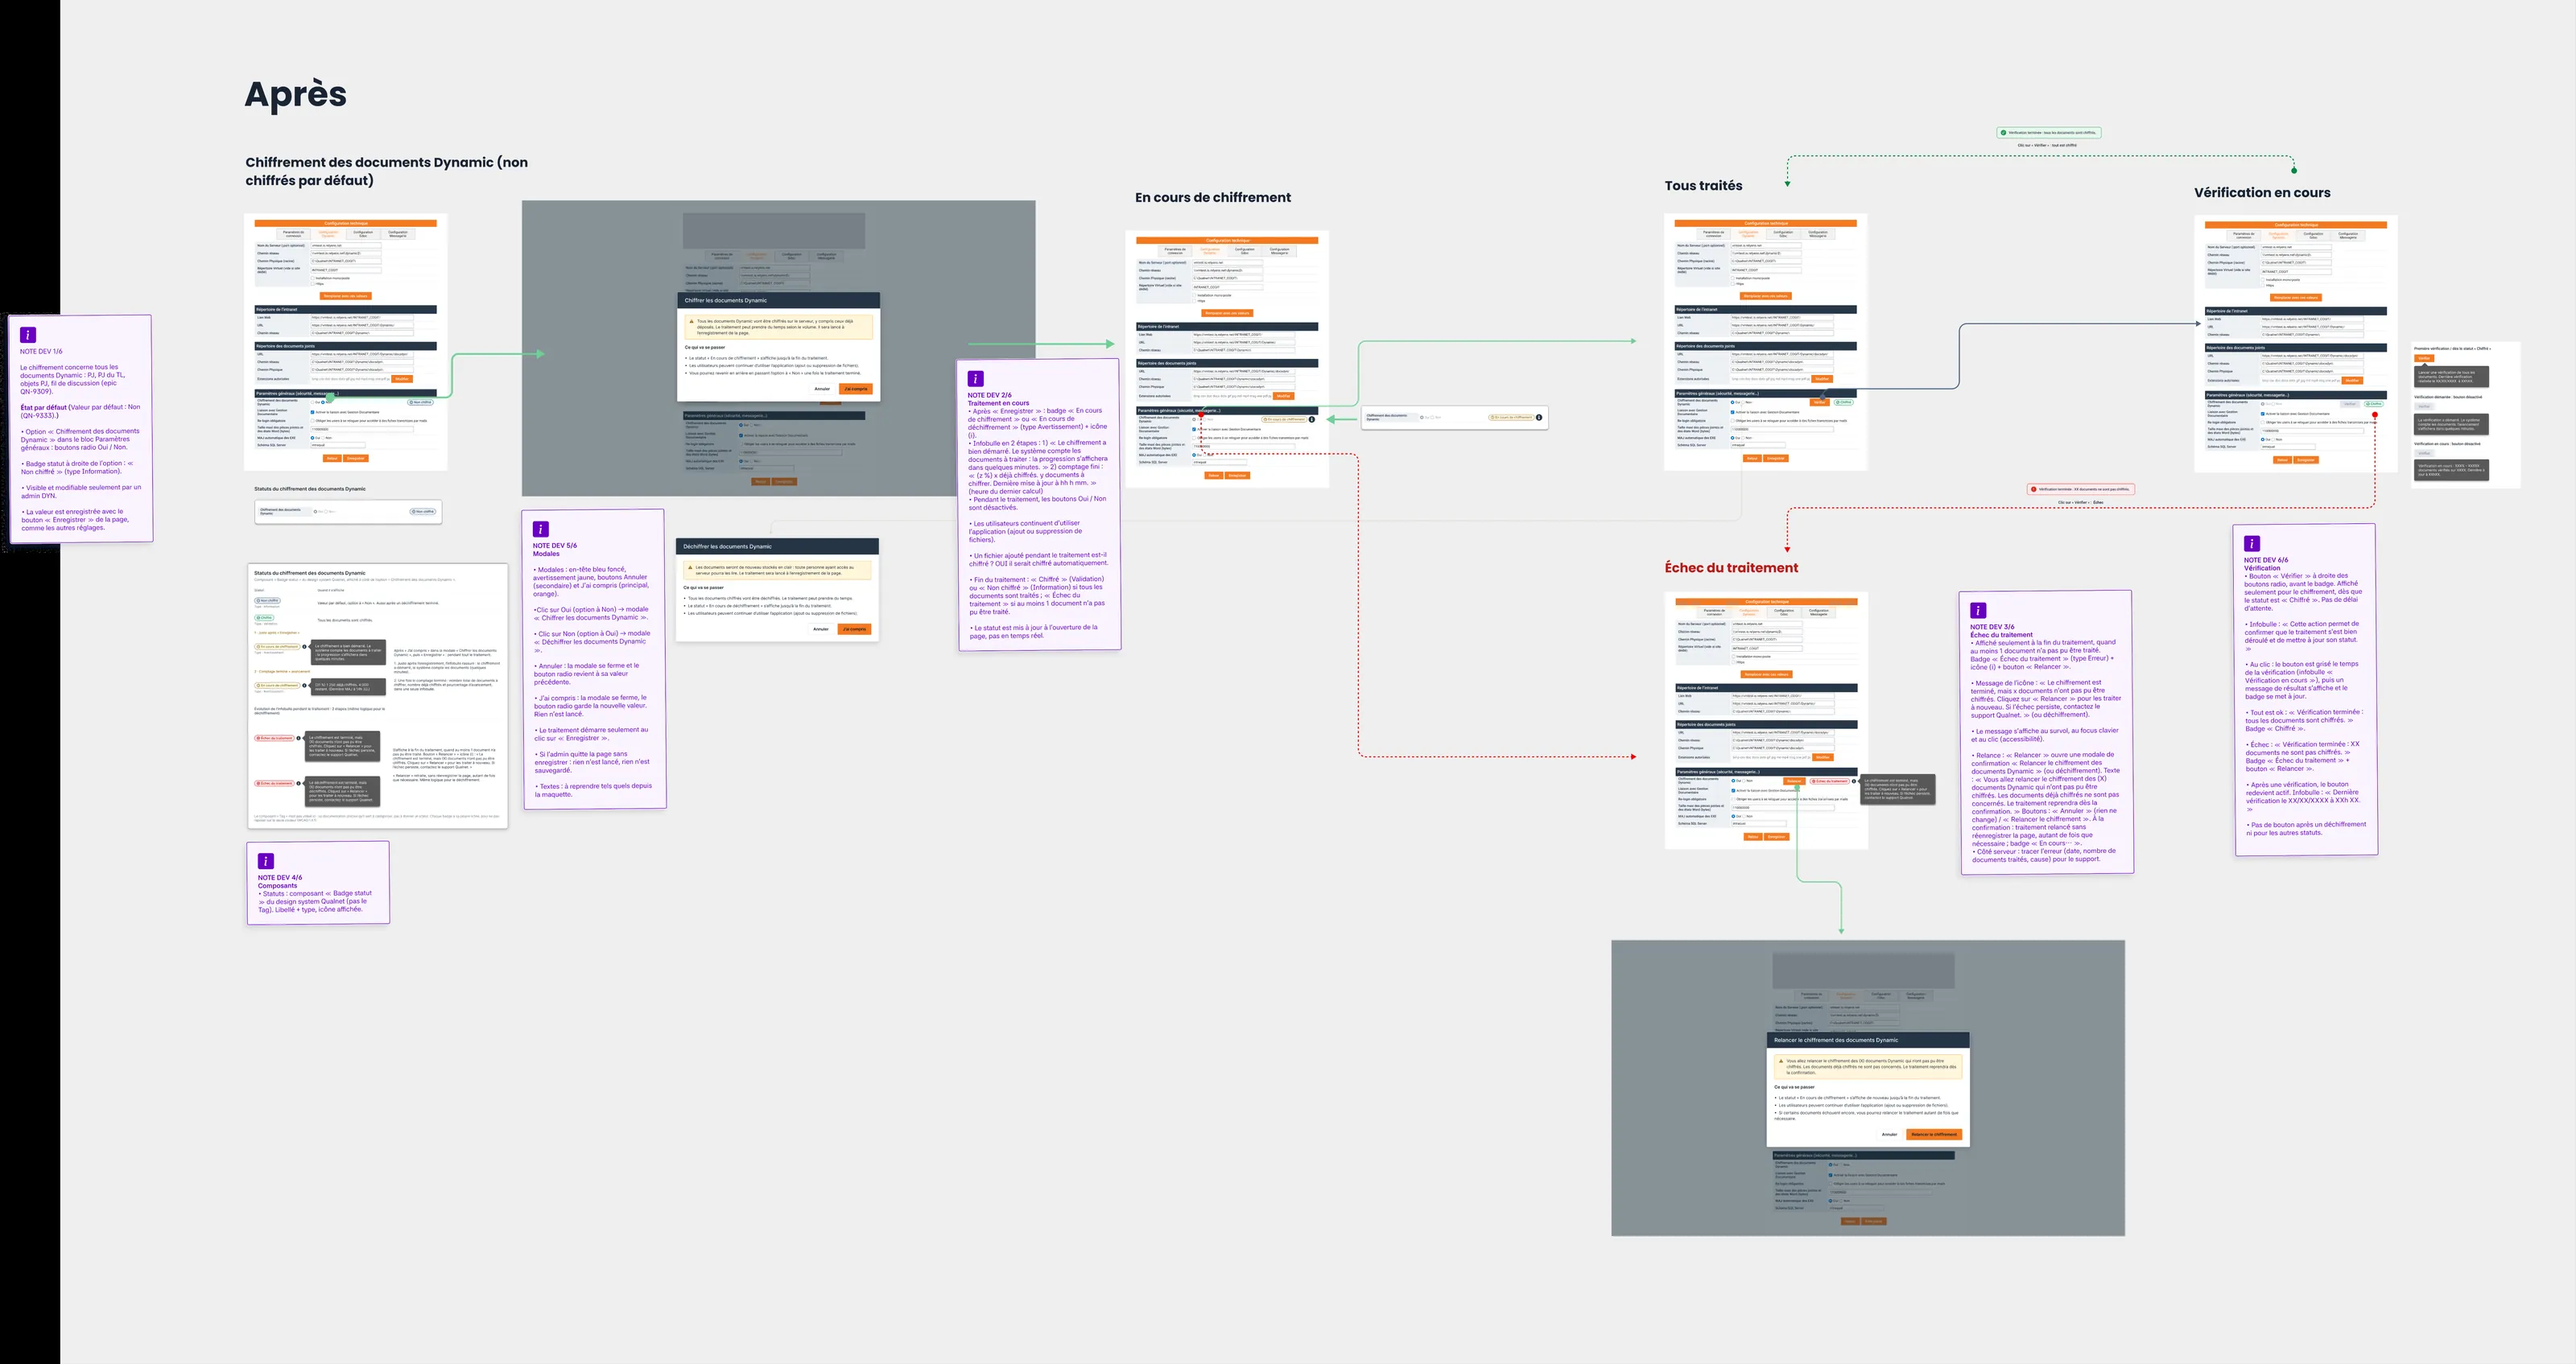
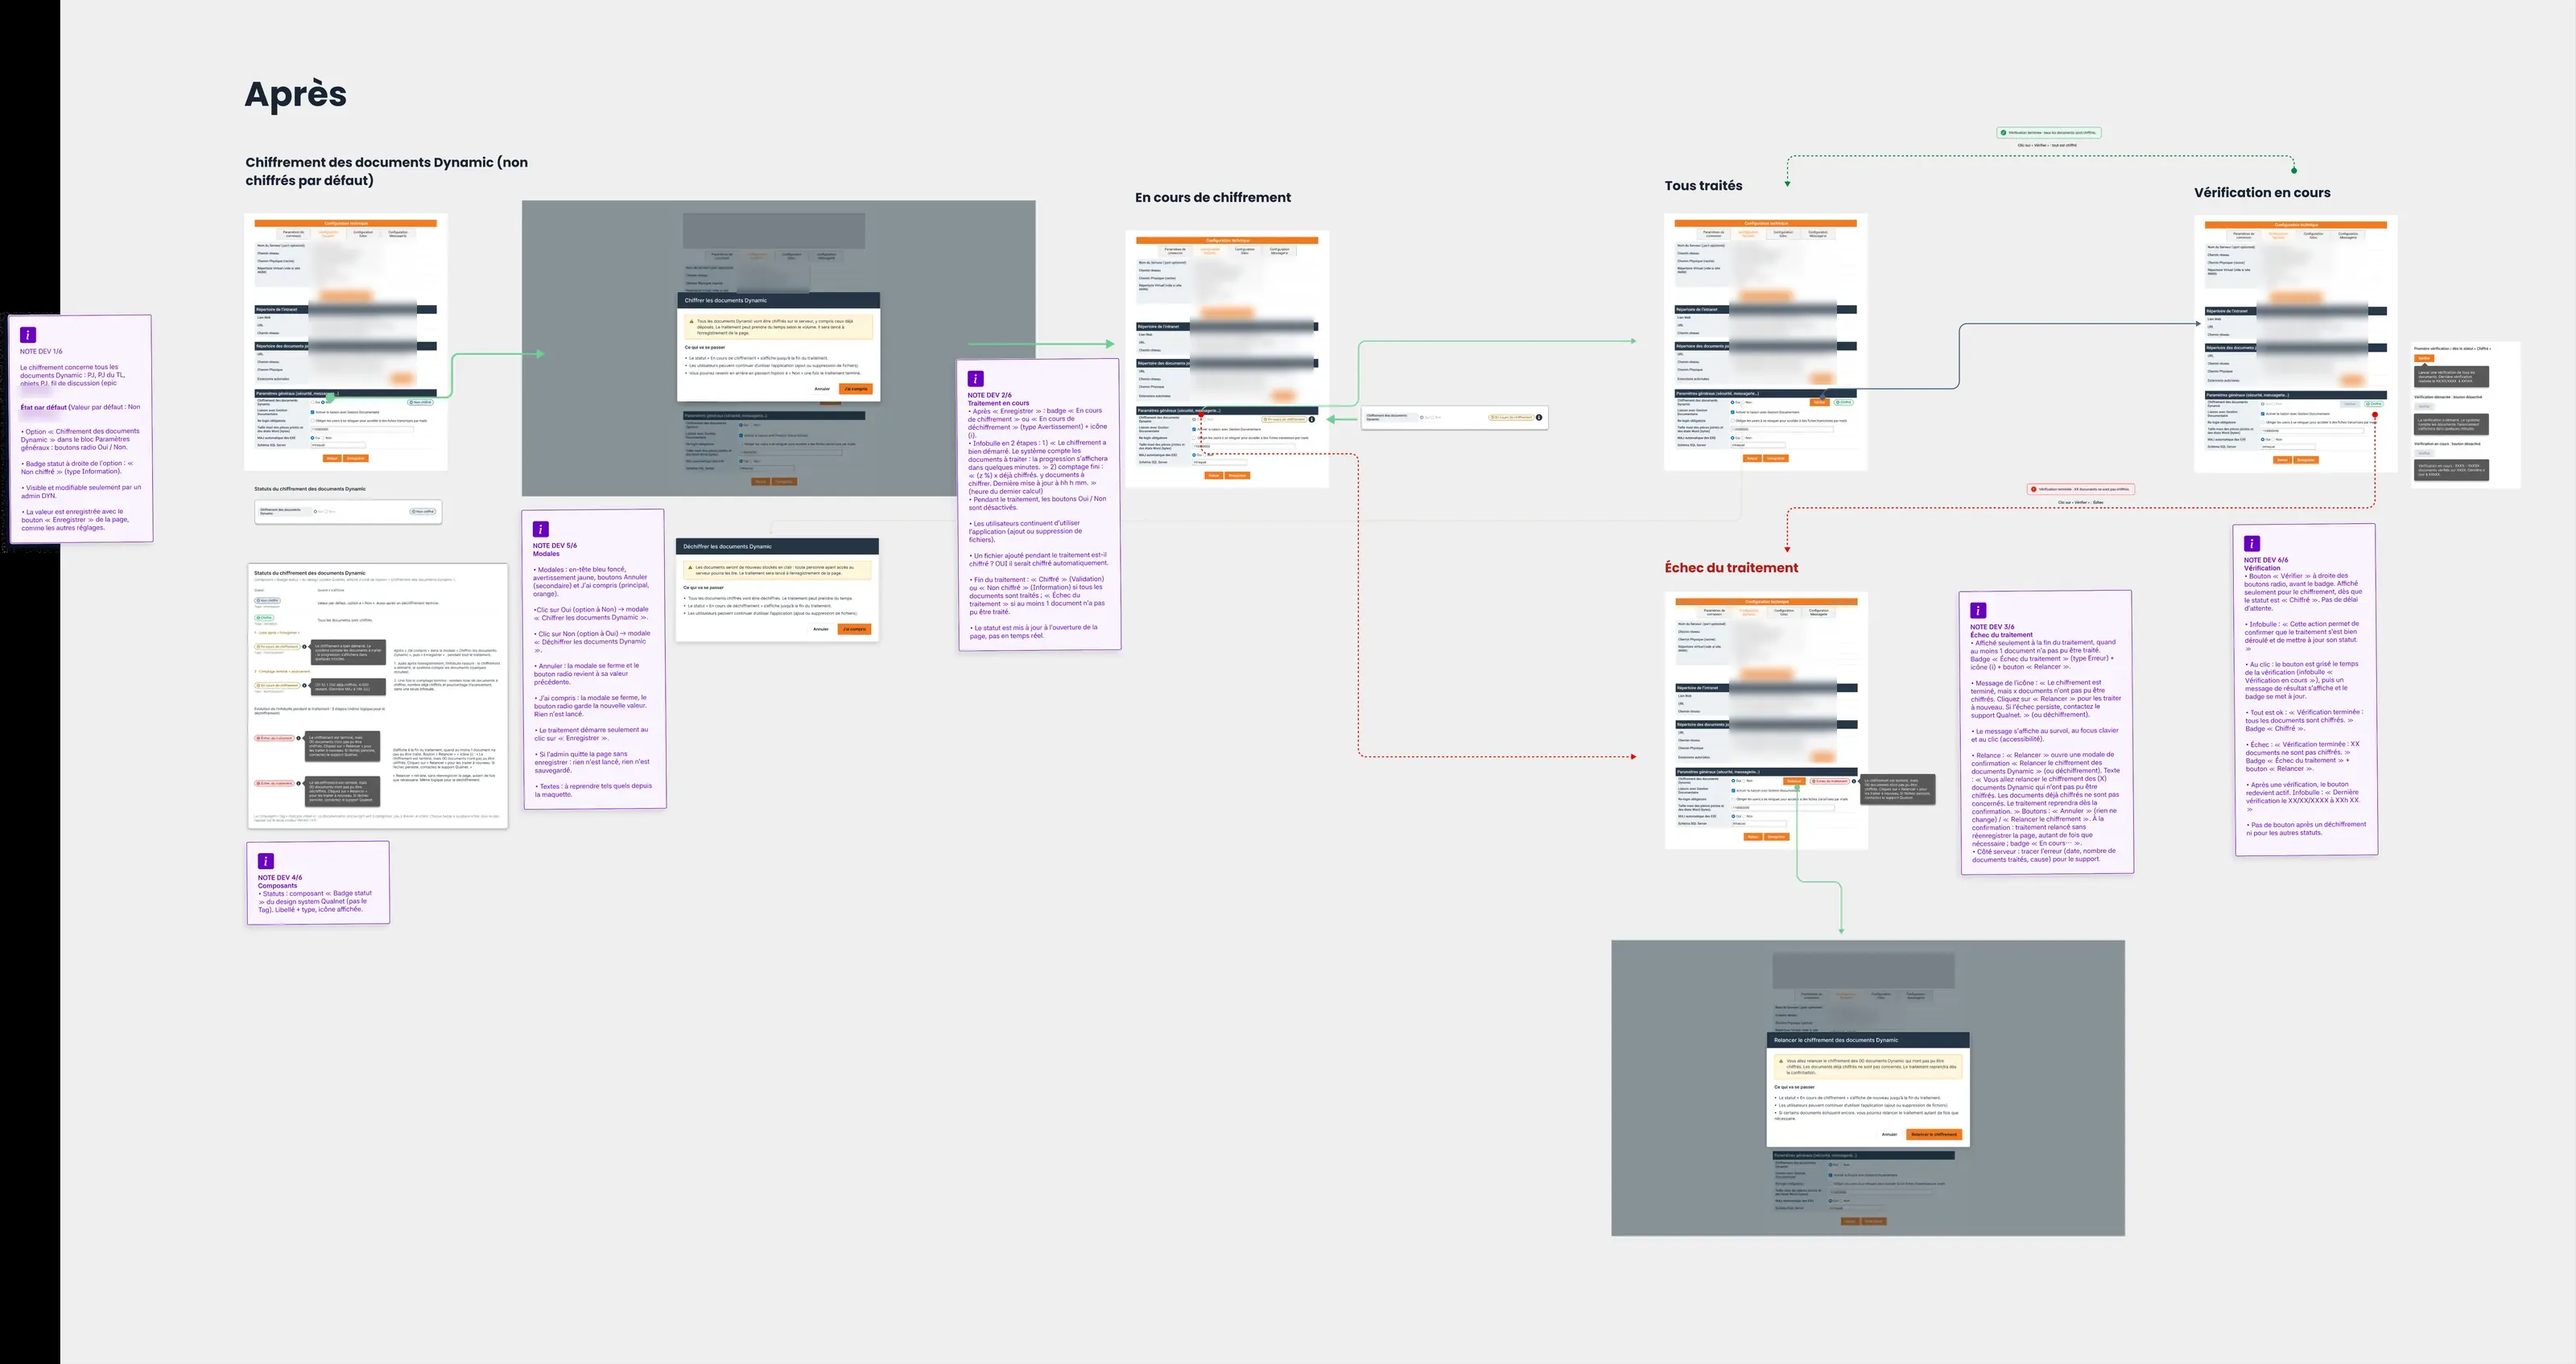
Qualnet: imágenes sin datos internos y recuadros vacíos con imágenes reales
Claude-Session: https://claude.ai/code/session_01BbjSfbZbRNXRJW3jhNLsnA

diff --git a/projects/qualnet/index.html b/projects/qualnet/index.html
@@ -186,7 +186,7 @@
 <h1 class="cs-title">Qualnet</h1>
 <p class="cs-role" data-i18n="qualnet.role">Éditeur français de logiciels qualité · Groupe Imagine Human</p>
 <p class="cs-kicker" data-i18n="h2.r.qualnet">Product Owner · 2026 – aujourd'hui</p>
-<figure class="cs-cover"><div class="cs-ph cs-ph--cover" role="img" aria-label="Qualnet — aperçu du logiciel" data-i18n-aria-label="qualnet.img1"><span data-i18n="qualnet.img1">Qualnet — aperçu du logiciel</span></div></figure>
+<figure class="cs-cover"><img alt="Qualnet — aperçu du logiciel" data-i18n-alt="qualnet.img1" decoding="async" fetchpriority="high" height="720" src="../../public/cover-qualnet.webp" width="1200"/></figure>
 <h2 class="cs-heading cs-heading--context" data-i18n="andy-electric.t011">Contexte</h2>
 <p class="cs-body" data-i18n="qualnet.p1">Qualnet est un éditeur français de logiciels qualité créé en 1997, qui a rejoint le groupe Imagine Human en 2026. Ses solutions no-code aident les organisations privées et publiques à simplifier, structurer et piloter leurs démarches qualité.</p>
 <p class="cs-body" data-i18n="qualnet.p2">La suite couvre la gestion documentaire qualité (Qualnet DOC), la dématérialisation des processus (Qualnet DYNAMIC) et le management de la qualité : non-conformités, audits, plans d'actions, évaluation des fournisseurs et indicateurs. Elle est proposée en SaaS ou on-premise et utilisée dans la santé, l'agroalimentaire, la pharmacie, la banque-assurance et l'industrie.</p>
@@ -222,7 +222,6 @@
 </div>
 <p class="cs-body" data-i18n="qualnet.clients">Parmi ses clients : le CHU de Montpellier, Loxam, NAOS, Vilmorin &amp; Cie, Leerdammer et la Croix-Rouge française.</p>
 </div>
-<div class="cs-img-box"><div class="cs-ph" role="img" aria-label="Qualnet — aperçu du logiciel" data-i18n-aria-label="qualnet.img1"><span data-i18n="qualnet.img1">Qualnet — aperçu du logiciel</span></div></div>
 <div class="cs-block">
 <h2 class="cs-heading" data-i18n="qualnet.h.design">Un Product Owner issu du design</h2>
 <p class="cs-body" data-i18n="qualnet.design.p">Grâce à mon expérience de designer, je participe aussi à la conception du produit, en particulier des nouvelles fonctionnalités d'IA intégrées au logiciel :</p>
@@ -232,7 +231,7 @@
 <li data-i18n="qualnet.design.l3">Amélioration des nouvelles fonctionnalités d'IA du logiciel.</li>
 </ul>
 </div>
-<div class="cs-img-grid cs-img-grid--duo"><div class="cs-ph cs-ph--duo" role="img" aria-label="Qualnet — flow d&#x27;une nouvelle fonctionnalité" data-i18n-aria-label="qualnet.img2"><span data-i18n="qualnet.img2">Qualnet — flow d'une nouvelle fonctionnalité</span></div><div class="cs-ph cs-ph--duo" role="img" aria-label="Qualnet — interface IA" data-i18n-aria-label="qualnet.img3"><span data-i18n="qualnet.img3">Qualnet — interface IA</span></div></div>
+<div class="cs-img-grid cs-img-grid--duo"><img width="660" height="350" alt="Qualnet — modale « Chiffrer les documents Dynamic »" data-i18n-alt="qualnet.img2" loading="lazy" src="./public/qualnet-modale.webp"/><img width="820" height="850" alt="Qualnet — statuts du chiffrement : badges et infobulles" data-i18n-alt="qualnet.img3" loading="lazy" src="./public/qualnet-statuts.webp"/></div>
 <div class="cs-block">
 <h2 class="cs-heading" data-i18n="qualnet.h.ai">L'IA dans les workflows produit et design</h2>
 <p class="cs-body" data-i18n="qualnet.ai.p">Une partie de mon travail est consacrée à l'exploration et à l'intégration de l'IA dans les workflows de Product Owner et de design :</p>
@@ -244,7 +243,7 @@
 <li data-i18n="qualnet.ai.l5">Documentation des processus d'exploration et analyse des livrables.</li>
 </ul>
 </div>
-<div class="cs-img-grid cs-img-grid--duo"><div class="cs-ph cs-ph--duo" role="img" aria-label="Qualnet — story map générée avec l&#x27;IA" data-i18n-aria-label="qualnet.img4"><span data-i18n="qualnet.img4">Qualnet — story map générée avec l'IA</span></div><div class="cs-ph cs-ph--duo" role="img" aria-label="Qualnet — du backlog à Figma" data-i18n-aria-label="qualnet.img5"><span data-i18n="qualnet.img5">Qualnet — du backlog à Figma</span></div></div>
+<div class="cs-img-grid cs-img-grid--duo"><img width="1600" height="777" alt="Qualnet — story map du parcours (extrait)" data-i18n-alt="qualnet.img4" loading="lazy" src="./public/qualnet-storymap.webp"/><img width="1100" height="620" alt="Qualnet — maquettes et notes pour les développeurs (extrait)" data-i18n-alt="qualnet.img5" loading="lazy" src="./public/qualnet-notes.webp"/></div>
 <div class="cs-block">
 <h2 class="cs-heading" data-i18n="qualnet.h.tickets">Des tickets pensés pour toute l'équipe</h2>
 <p class="cs-body" data-i18n="qualnet.tickets.p">Je rédige des tickets conçus pour un travail transversal entre le Product Owner, l'équipe design, le développement et la QA : contexte, user story, critères d'acceptation, maquettes liées et cas de test.</p>
